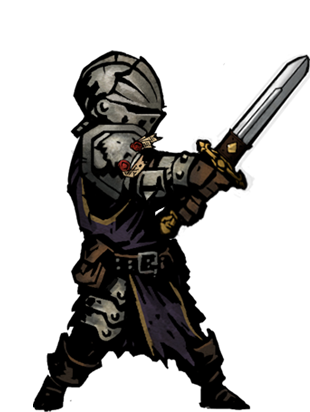
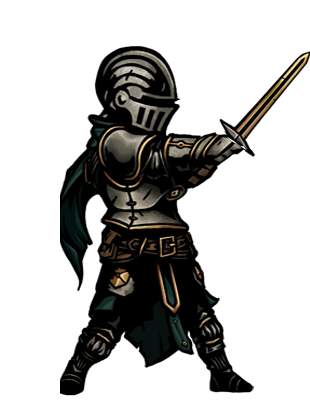
Added animations

Changed region(s): [[0.0871, 0.0874, 1.0, 1.0]]

diff --git a/front-end/script/game_page/play_skill.js b/front-end/script/game_page/play_skill.js
@@ -1,10 +1,89 @@
 const DEATHTIME = 350;
 const RESETTIME = 300;
-function playSkill(type,values) {
+const ANITIME = 550;
+
+const userAttack = [
+    'translate3d(0, 0, 0)',
+    'translate3d(100%, 0, 0)',
+    'translate3d(150%, 0, 0)',
+    'translate3d(300%, 0%, 0)',
+    'translate3d(300%, -5%, 0)',
+    'translate3d(0, 0, 0)'
+];
+
+const userDefend = [
+    'translate3d(-5%, 0, 0) scaleX(-1)',
+    'translate3d(5%, 0, 0) scaleX(-1)'
+];
+
+const enemyAttack = [
+    'translate3d(0, 0, 0)',
+    'translate3d(-100%, 0, 0)',
+    'translate3d(-150%, 0, 0)',
+    'translate3d(-300%, 0%, 0)',
+    'translate3d(-300%, -5%, 0)',
+    'translate3d(0, 0, 0)'
+];
+
+const enemyDefend = [
+    'translate3d(5%, 0, 0) scaleX(-1)',
+    'translate3d(-5%, 0, 0) scaleX(-1)'
+];
+
+let skillPlayed = false;
+
+function playSkill(type,values,skillUserLocation,targetLocation) {
     //set value for monster
-    if (type = 'attack') {
-        //    
+    playBars(values);
+    if (skillPlayed) {
+        playAnimation(type, skillUserLocation, targetLocation);
     }
+    
+}
+
+function playAnimation(type, skillUserLocation, targetLocation) {
+    var skillUser = "";
+    var direction = 1;
+    var skillUserAnimation = [];
+    var targetAnimation = [];
+    if (skillUserLocation.includes('torchbearers')) {
+        skillUser = 'user-char';
+        skillTarget = 'monster-char';
+        skillUserAnimation = userAttack;
+        targetAnimation = enemyDefend;
+    } else {
+        skillUser = 'monster-char';
+        skillTarget = 'user-char';
+        skillUserAnimation = enemyAttack;
+        targetAnimation = userDefend;
+        direction = -1;
+    }
+    
+    var user = getDiv(skillUser);
+    var target = getDiv(skillTarget);
+    if (type == skillType.attack) {
+        
+        user.style = `background-image: url("${skillUserLocation}/attack.png");`;
+        user.animate({
+            transform: skillUserAnimation,
+            easing: ['ease-in', 'ease-out'],
+        }, ANITIME);
+        target.style = `background-image: url("${targetLocation}/defend.png");`;
+        target.animate({
+            transform: targetAnimation,
+            easing: ['ease-in', 'ease-out'],
+        }, ANITIME);
+    } else {
+        user.style = `background-image: url("${skillUserLocation}/rest.png");`;
+    }
+
+    setTimeout(() => {
+        getDiv(skillUser).style = `background-image: url("${skillUserLocation}/base.png");`;
+        getDiv(skillTarget).style = `background-image: url("${targetLocation}/base.png");`;
+    }, ANITIME);
+}
+
+function playBars(values) {
     if (currentUserEn + values[3] >= 0) {
         playHp(values[0], chars.monster);
         playEn(values[1], chars.monster);
@@ -26,9 +105,10 @@ function playSkill(type,values) {
             setTimeout(function () {
                 endBattle(false);
             }, DEATHTIME);
-        }    
+        }
+        skillPlayed = true;
     } else {
         alertMessage("Not enough energy !");
+        skillPlayed = false;
     }
-    
 }

diff --git a/front-end/script/game_page/start_game.js b/front-end/script/game_page/start_game.js
@@ -1,5 +1,8 @@
 //Page requires account to access
-
+const skillType = {
+    attack: 'attack',
+    heal: 'heal'
+}
 if (localStorage.getItem('isGameStarted') === null) {
     pageChange(loginUrl);
 } else {
@@ -38,13 +41,15 @@ function startGame() {
     getDiv(`sk${3}`).style = `background-image: url("../../resources/media/char/torchbearers/Shared/skills/${skills[0]['filename']}.png");`;
     getDiv(`sk${3}`).addEventListener("click", function () {
         playSkill(
-            type,
+            skillType.heal,
             [
                 skills[0]['hpEnemy'],
                 skills[0]['enEnemy'],
                 skills[0]['hpUser'],
                 skills[0]['enUser']
-            ]
+            ],
+            userLocation,
+            enemyLocation
         );
     });
     
@@ -54,12 +59,12 @@ function startGame() {
     for (let i = 1; i < 4; i++) {
         var j = i - 1;
         getDiv(`sk${j}`).style = `background-image: url("../../resources/media/char/torchbearers/${torchbearer['name']}/skills/${skills[i]['filename']}.png");`;
-        var type = skills[i]['hpEnemy'] == 0 && skills[i]['enEnemy'] == 0 ? 'heal':'attack';
         getDiv(`sk${j}`).addEventListener("mouseover", function () {
             showDesc(skills[i]['description']);
         });
-
         getDiv(`sk${j}`).addEventListener("click", function () {
+            let type = skills[i]['filename'].includes('heal') ? skillType.heal : skillType.attack;
+            console.log(skills[i]['filename'], skills[i]['filename'].includes('heal'));
             playSkill(
                 type,
                 [
@@ -67,13 +72,17 @@ function startGame() {
                     skills[i]['enEnemy'],
                     skills[i]['hpUser'],
                     skills[i]['enUser']
-                ]
+                ],
+                userLocation,
+                enemyLocation
             );
         });
     }
     //chars
-    getDiv('user-char').style = `background-image: url("${userLocation}/base.png");`;
-    getDiv('monster-char').style = `background-image: url("${enemyLocation}/base.png");`;
+    const userSpriteId = 'user-char';
+    const monsterSpriteId = 'monster-char';
+    getDiv(userSpriteId).style = `background-image: url("${userLocation}/base.png");`;
+    getDiv(monsterSpriteId).style = `background-image: url("${enemyLocation}/base.png");`;
     
     setTimeout(() => {
         alertMessage("Collect all the treasure");    

diff --git a/front-end/script/game_page/battle_fun.js b/front-end/script/game_page/battle_fun.js
@@ -36,10 +36,16 @@ function startBattle() {
 }
 
 function endBattle(isWin) {
+    getDiv("curtain").classList.remove("active-curtain");
+    getDiv("battle-box").classList.remove("load");   
     if (isWin) {
-        getDiv("curtain").classList.remove("active-curtain");
         getDiv("explore-box").classList.remove("unload");
-        getDiv("battle-box").classList.remove("load");    
+    } else {
+        alertMessage("You lost !");
+        setTimeout(() => {
+            pageChange(loginUrl);
+        },1000)
+        
     }
 }
 
